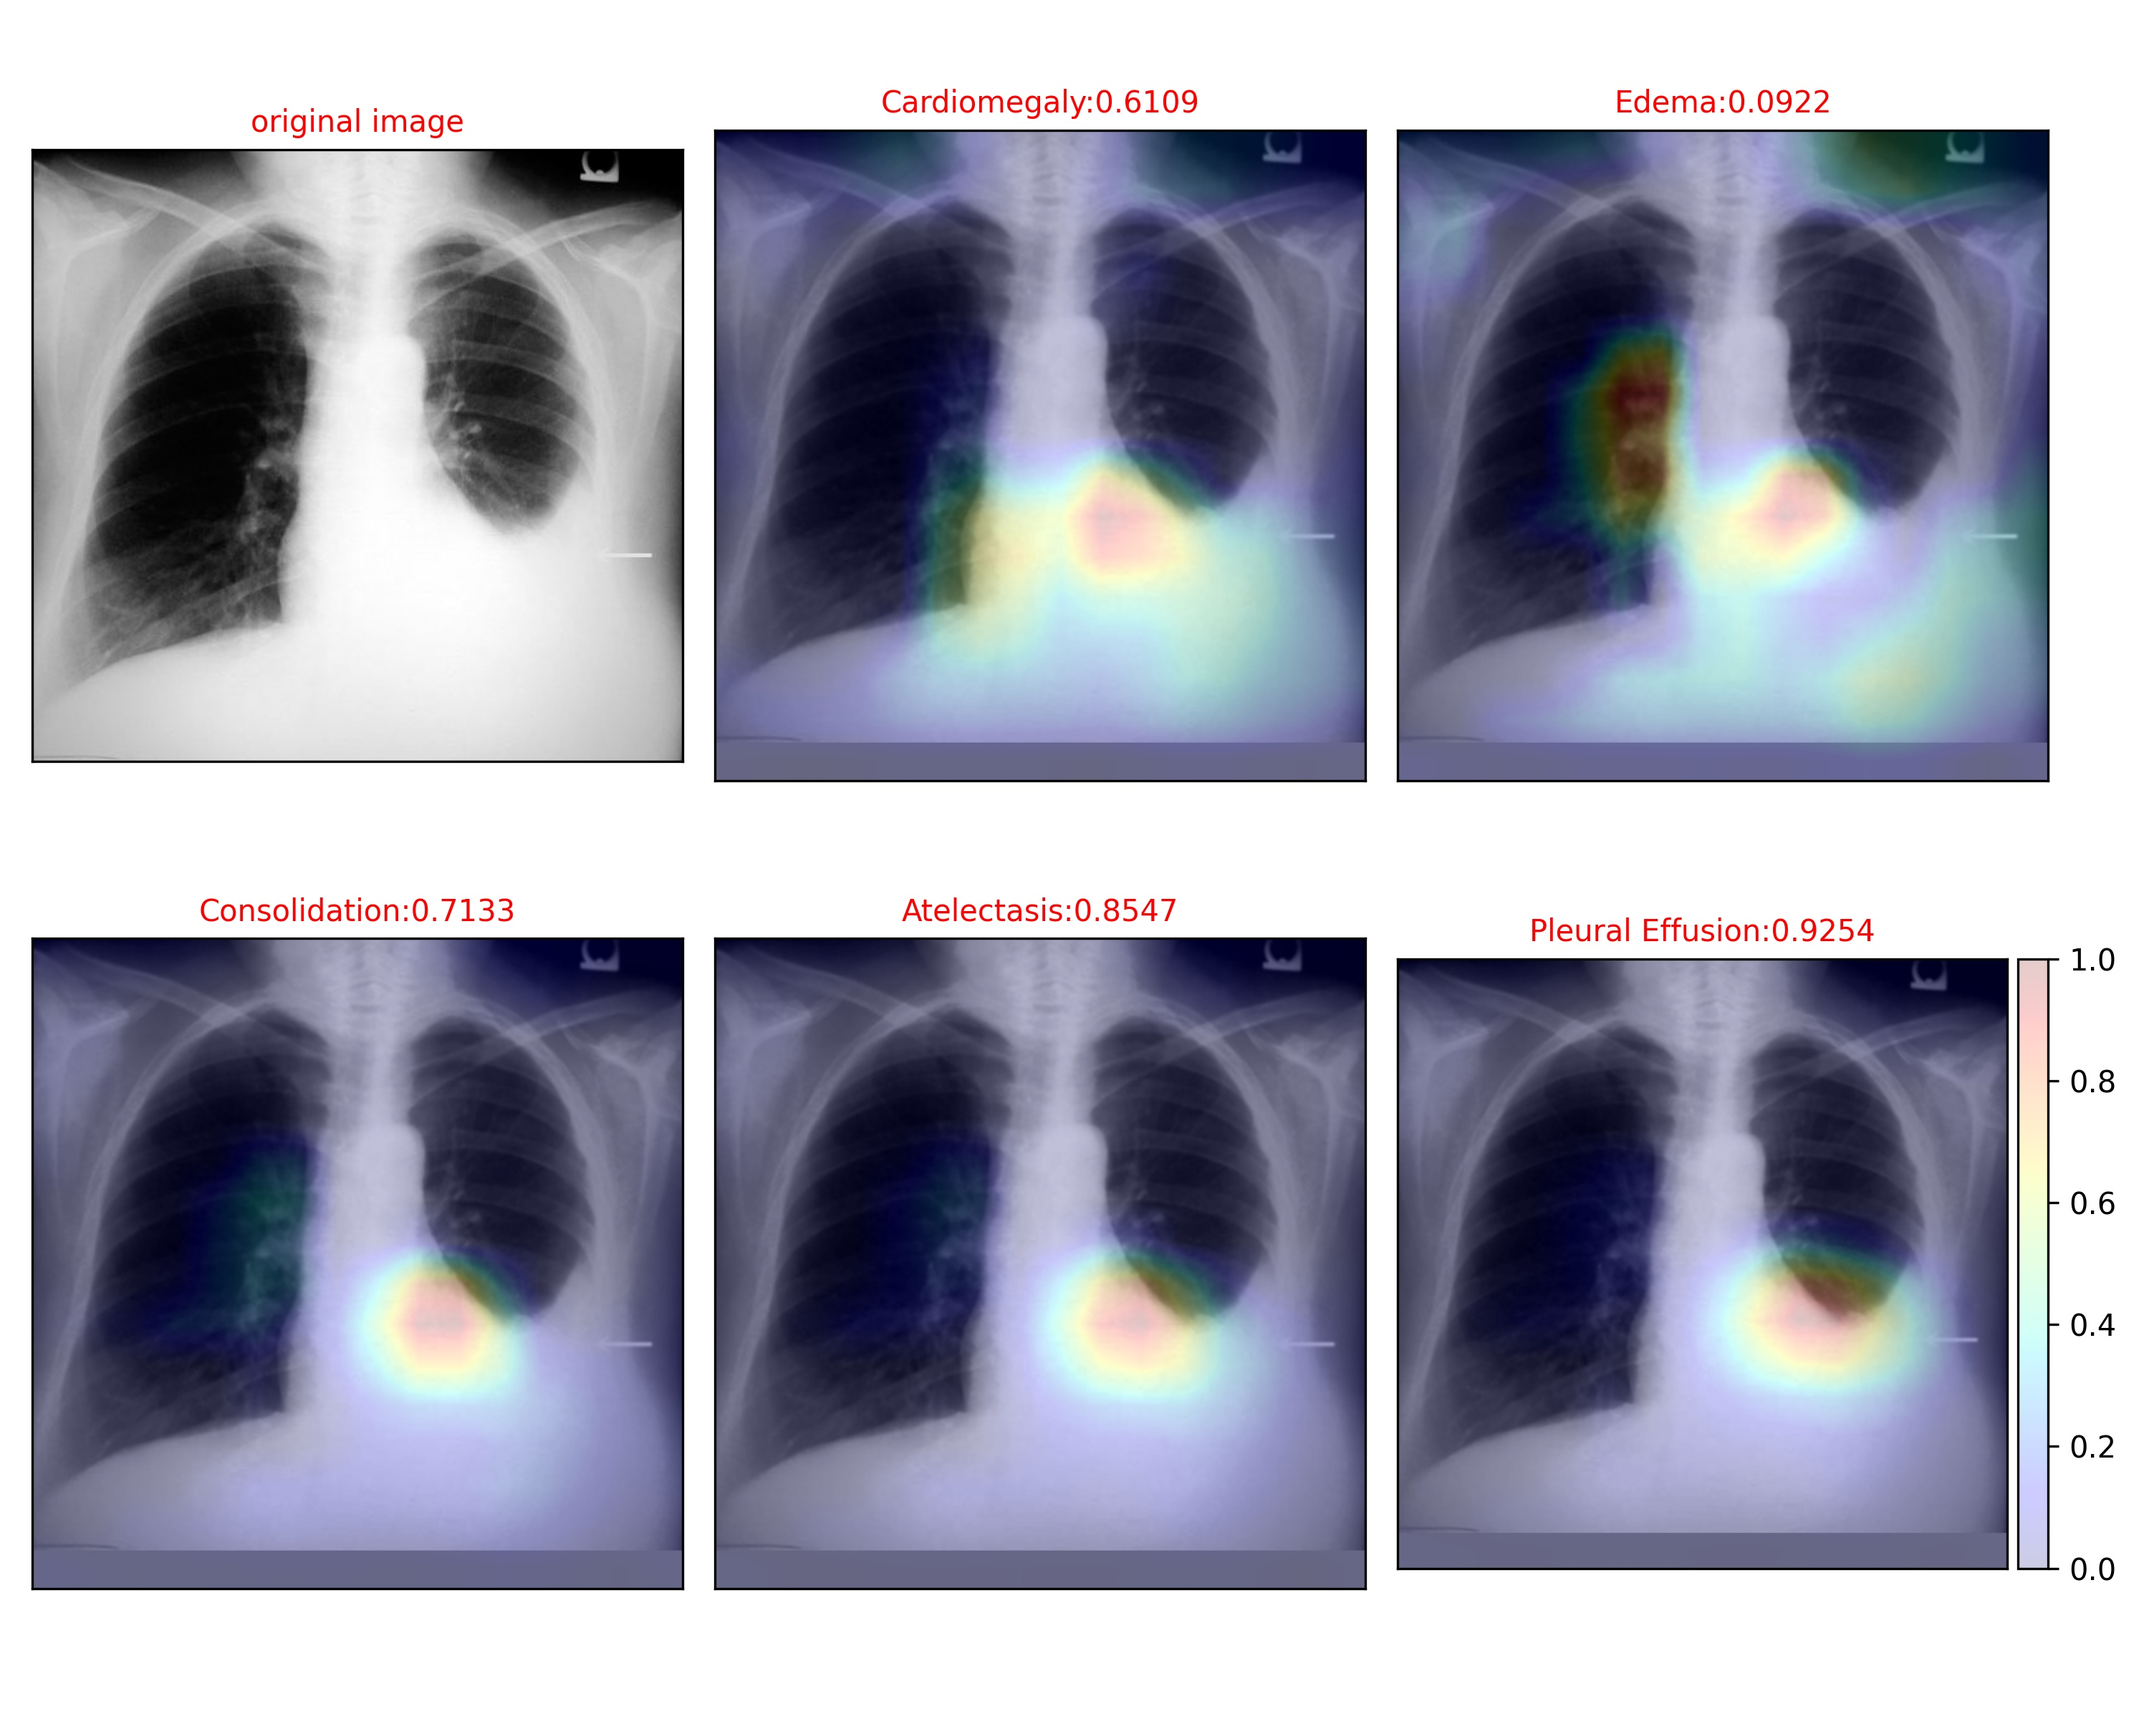
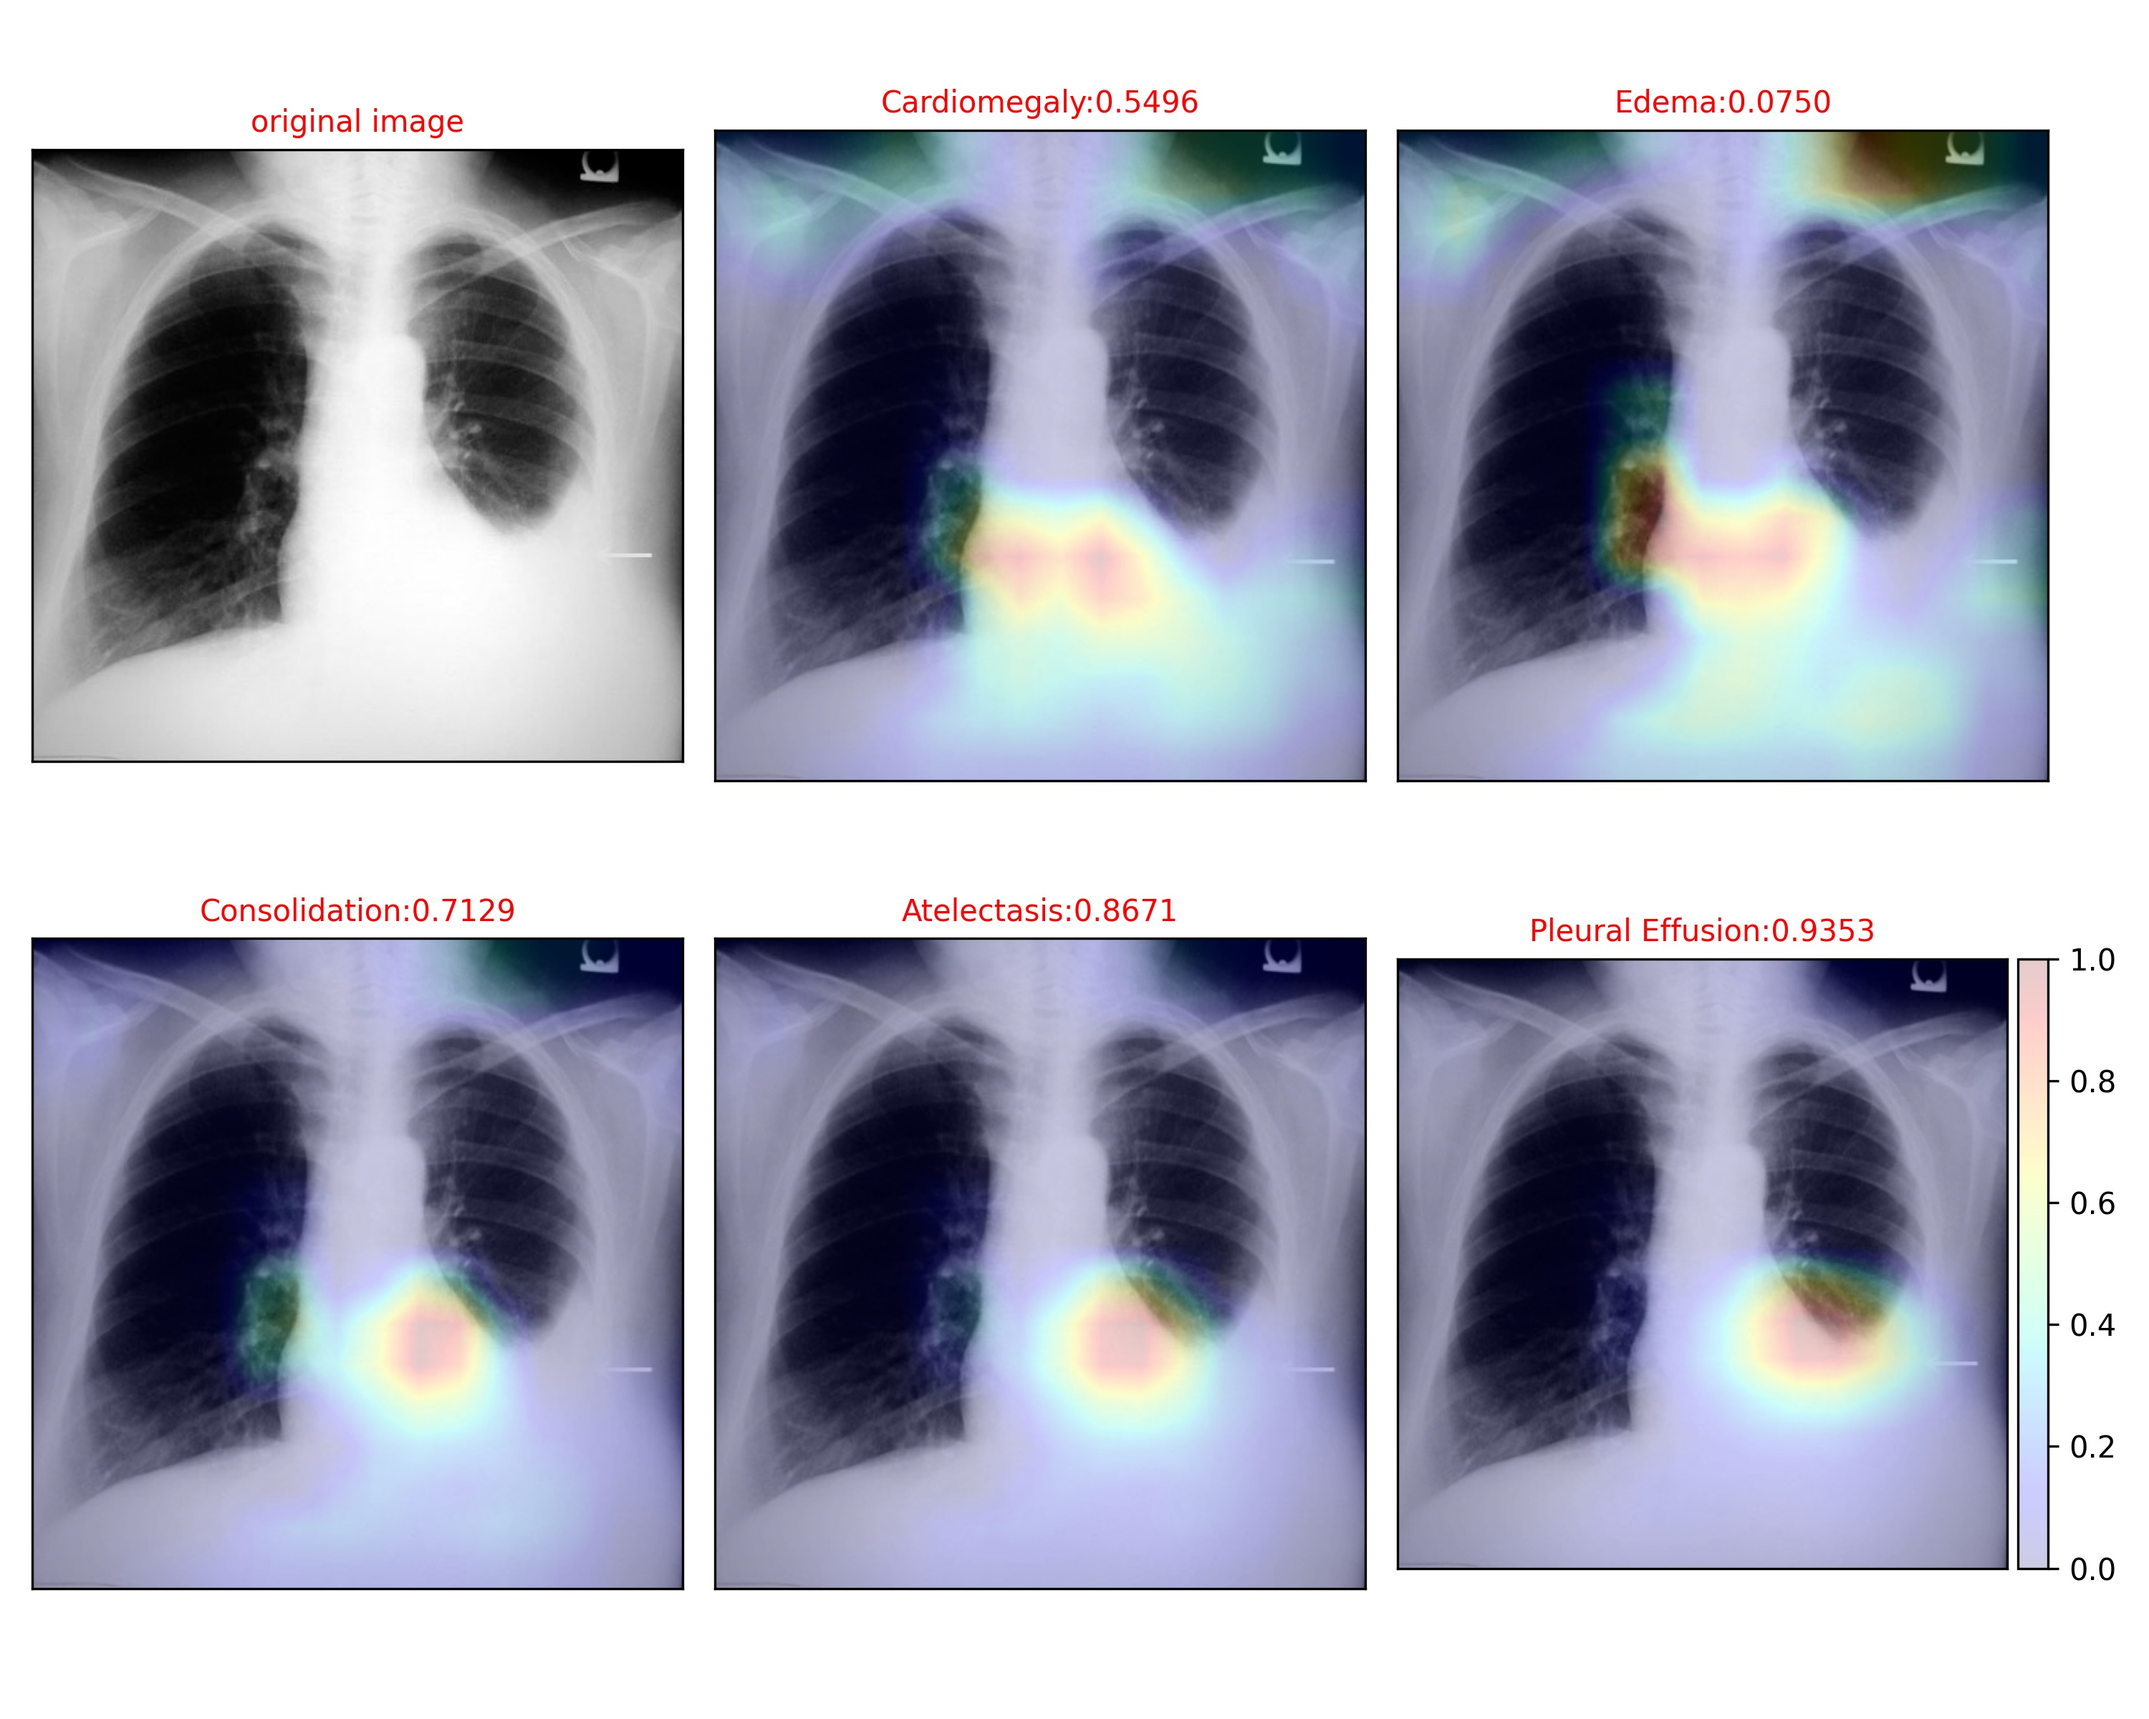
solved problem of prediction

diff --git a/app.py b/app.py
@@ -69,12 +69,12 @@ def fig2data(fig):
 
 def image_reader(image_file, cfg):
     print(f"Reading image: {image_file}")
-    image_gray = cv2.imread(image_file, 0)
-    assert image_gray is not None, f"Invalid image read: {image_file}"
-    image_color = cv2.cvtColor(image_gray, cv2.COLOR_GRAY2RGB)
-    image = transform(image_gray, cfg)
-    image = torch.from_numpy(image).unsqueeze(0)
-    return image, image_color
+    image = Image.open(image_file).convert('L')
+    transform_fn = get_transform(cfg)
+    image_tensor = transform_fn(image).unsqueeze(0)
+    image_color = np.array(image.convert('RGB'))  # For display purposes
+    print(f"image_reader shape: {image_tensor.shape}, first few values: {image_tensor[0,0,:5,:5]}")
+    return image_tensor, image_color
 
 def generate_heatmap(image_file, model, cfg, alpha, device, output_dir):
     print(f"Generating heatmap for {image_file}")
